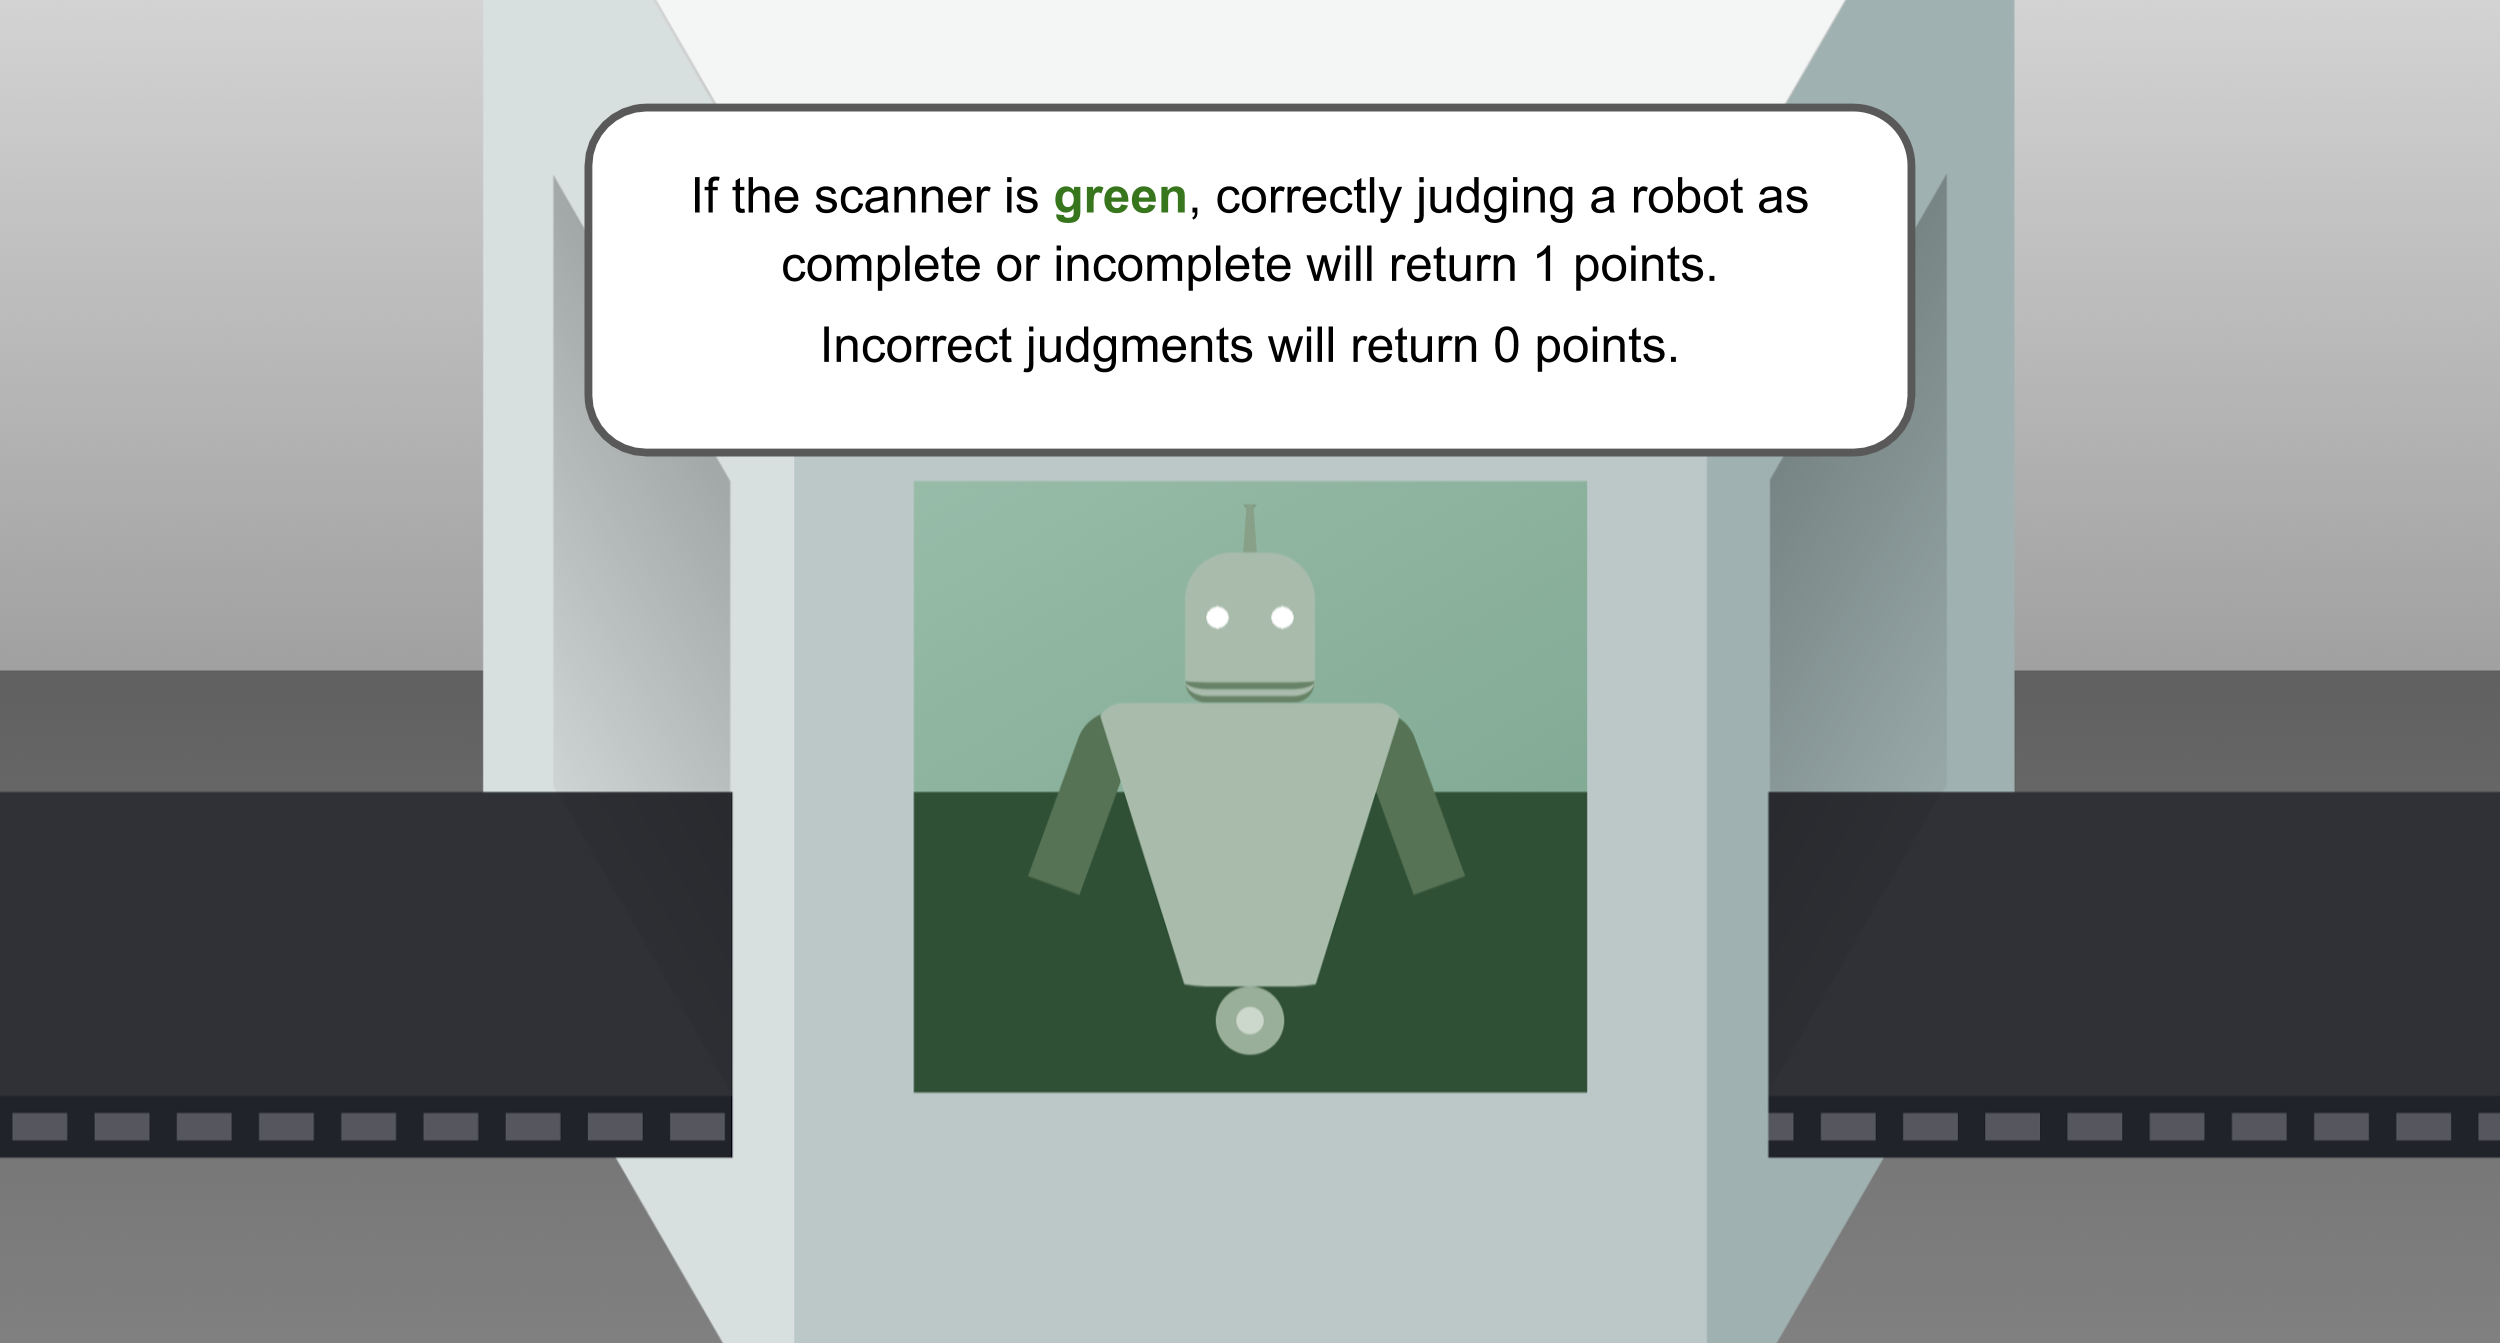
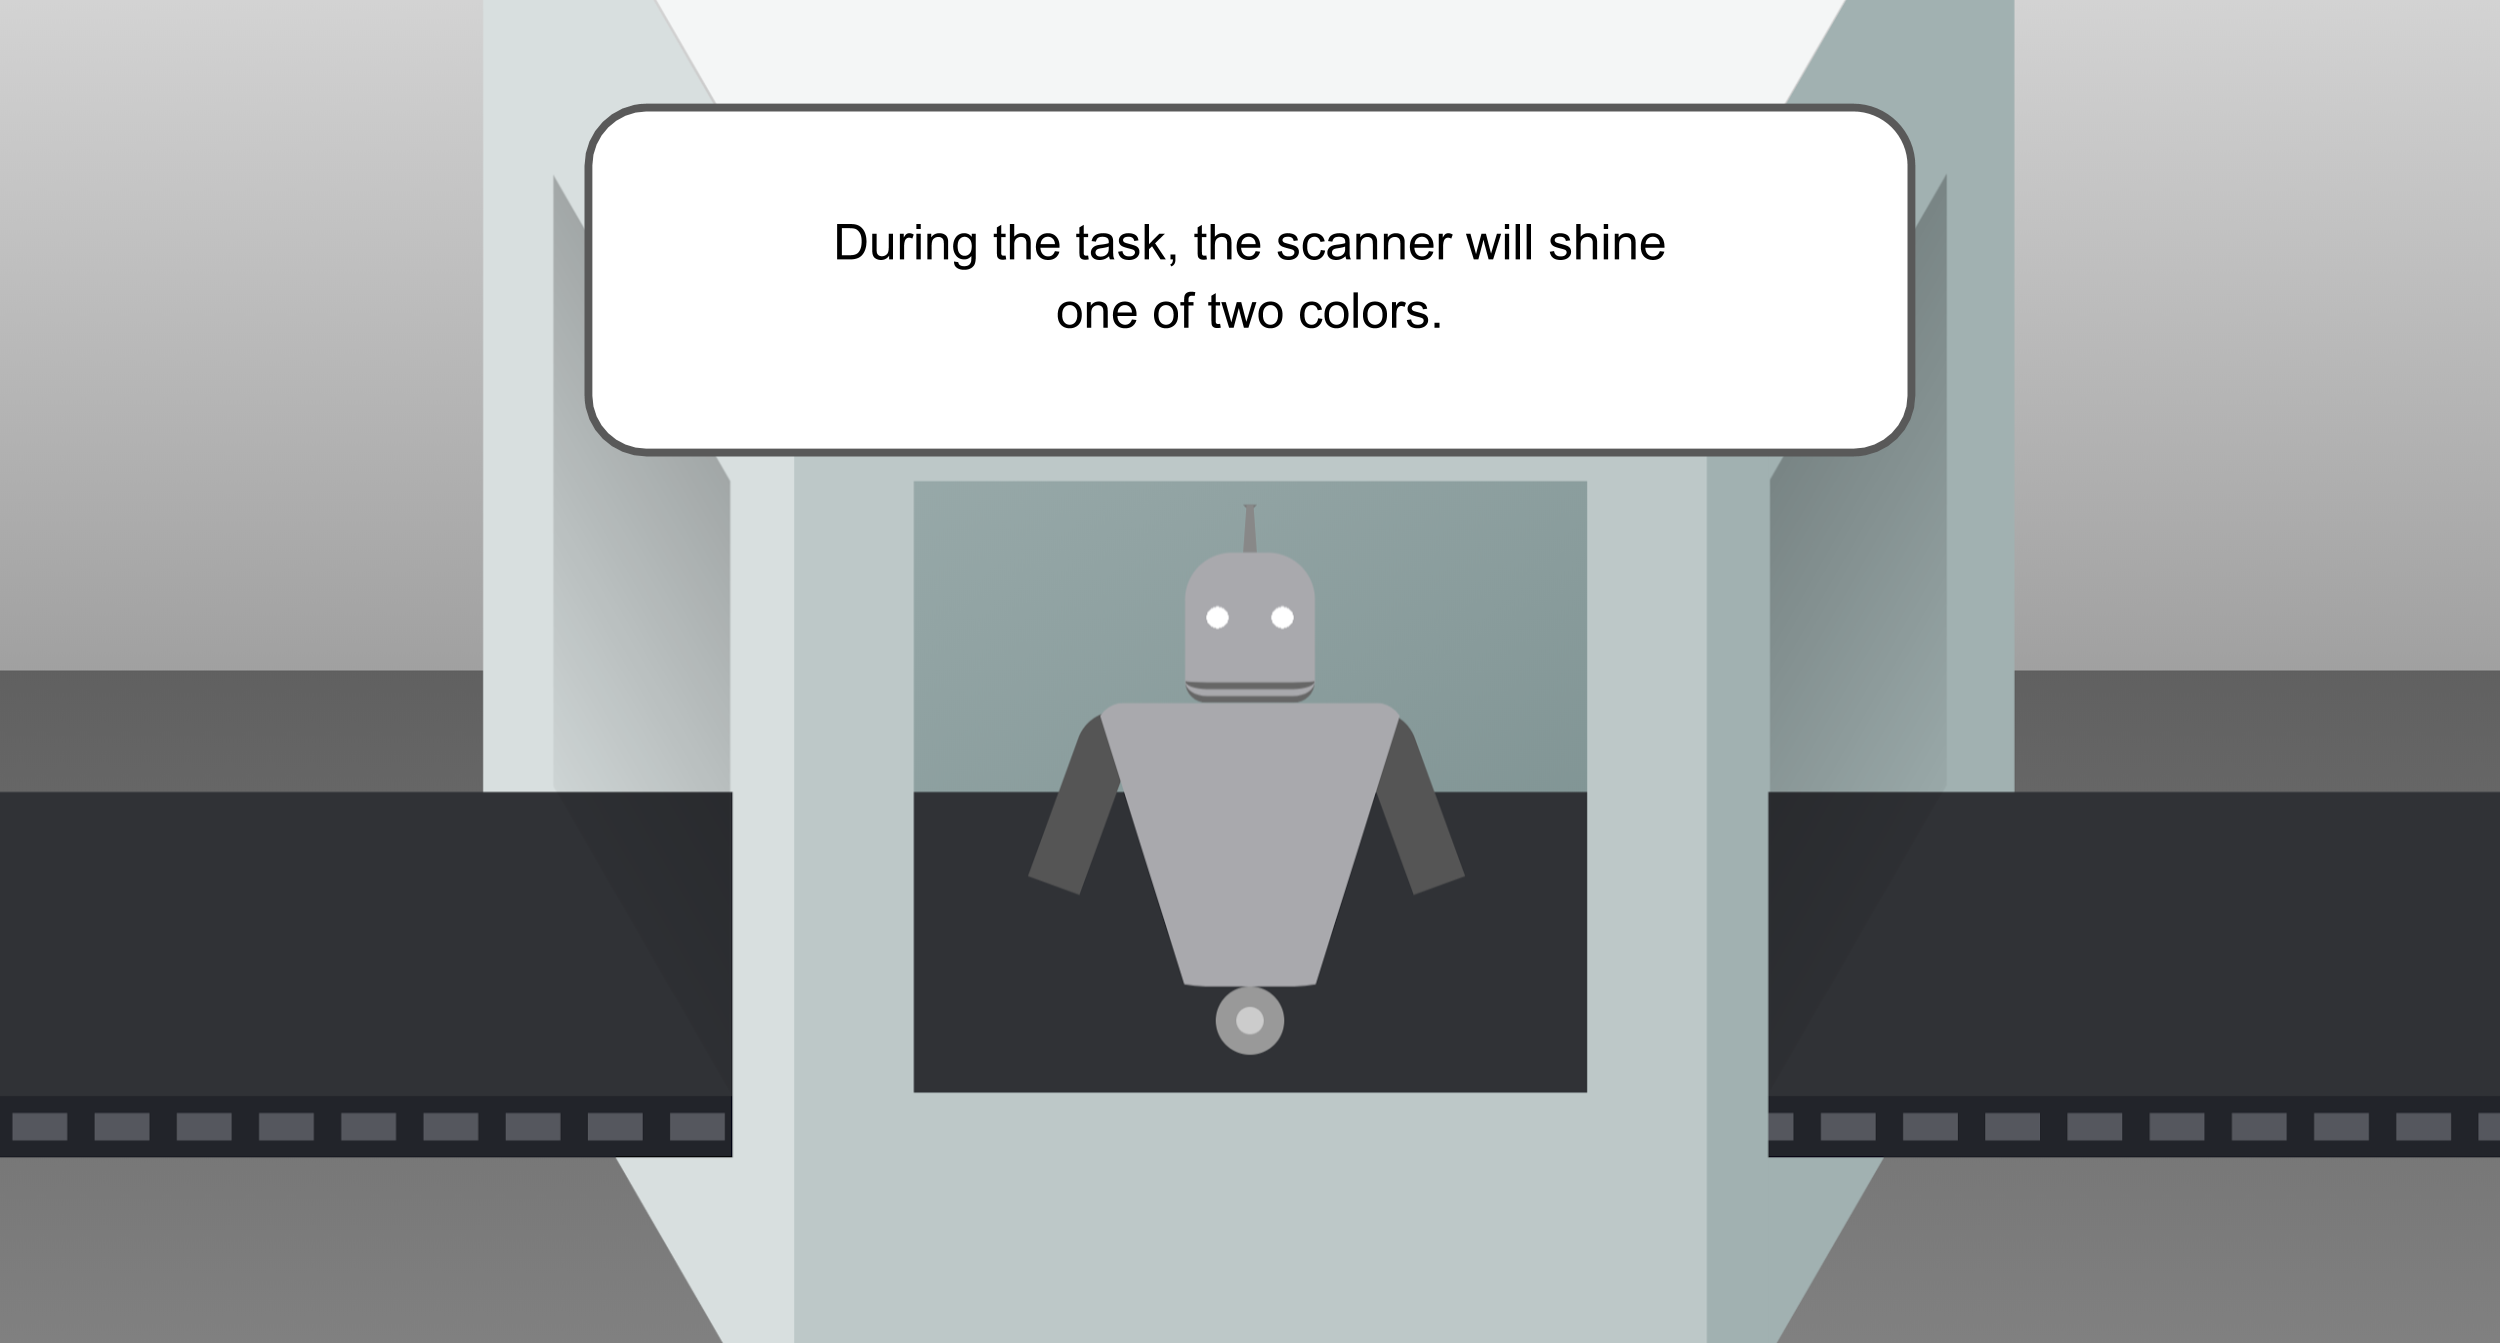
minor changes

Changed region(s): [[0.3432, 0.5495, 0.6552, 0.8243], [0.2808, 0.1221, 0.7176, 0.2748], [0.468, 0.4885, 0.5304, 0.5495]]

diff --git a/app/static/js/jspsych-pit-pause.js b/app/static/js/jspsych-pit-pause.js
@@ -17,19 +17,6 @@ jsPsych.plugins["pit-pause"] = (function() {
         default: jsPsych.ALL_KEYS,
         description: 'The keys the subject is allowed to press to respond to the stimulus.'
       },
-      trial_duration: {
-        type: jsPsych.plugins.parameterType.INT,
-        pretty_name: 'Trial duration',
-        default: null,
-        description: 'How long to show trial before it ends.'
-      },
-      response_ends_trial: {
-        type: jsPsych.plugins.parameterType.BOOL,
-        pretty_name: 'Response ends trial',
-        default: true,
-        description: 'If true, trial will end when subject makes a response.'
-      },
-
     }
   }
 
@@ -41,6 +28,7 @@ jsPsych.plugins["pit-pause"] = (function() {
 
     // Initialize HTML.
     var new_html = '';
+    console.log(trial.score);
 
     // Insert CSS (turn off conveyor animation).
     new_html += `<style>
@@ -73,9 +61,6 @@ jsPsych.plugins["pit-pause"] = (function() {
     new_html += `<div class="rune"></div></div>`;
     new_html += '<div class="foot"></div></div>';
 
-    // Do not add factory window.
-    // new_html += `<div class="window" style="background: ${trial.scanner_color}"></div>`;
-
     // Add factory machine parts (front).
     new_html += '<div class="machine-front"><div class="score-container"></div></div>';
     new_html += '<div class="machine-top"></div>';
@@ -83,7 +68,7 @@ jsPsych.plugins["pit-pause"] = (function() {
 
     // Add pause screen.
     new_html += '<div class="pause-container"><div class="pause-message">';
-    new_html += `<p>Great job! You've earned ${trial.score} points.</p><p>Take a break for a few moments and press any button when you are ready to continue.</p>`;
+    new_html += `<p id='message'>Great job! You've earned ${trial.score} points.<br><br>Take a break for a few moments and press any button when you are ready to continue.</p>`;
     new_html += '</div></div>';
 
     // Display HTML
@@ -99,19 +84,41 @@ jsPsych.plugins["pit-pause"] = (function() {
       key: null
     };
 
+    // function to handle responses by the subject
+    var after_response = function(info) {
+
+      // Kill any timeout handlers / keyboard listeners
+      jsPsych.pluginAPI.clearAllTimeouts();
+      jsPsych.pluginAPI.cancelKeyboardResponse(keyboardListener);
+
+      // Record response (if any made)
+      if (info != null) {
+        response = info;
+      }
+
+      // Update HTML
+      display_element.querySelector('#message').innerHTML = "Get ready to learn a brand new set of robots.<br><br>Press any key to continue."; 
+
+      // Initialize second keyboard listener.
+      var keyboardListener = "";
+      setTimeout(function() {
+        keyboardListener = jsPsych.pluginAPI.getKeyboardResponse({
+          callback_function: end_trial,
+          valid_responses: trial.valid_responses,
+          rt_method: 'performance',
+          persist: false,
+          allow_held_key: false
+        });
+      }, 200);
+
+    };
+
     // function to end trial when it is time
     var end_trial = function() {
 
-      // kill any remaining setTimeout handlers
+      // Kill any timeout handlers / keyboard listeners
       jsPsych.pluginAPI.clearAllTimeouts();
-
-      // kill keyboard listeners
-      if (typeof keyboardListener !== 'undefined') {
-        jsPsych.pluginAPI.cancelKeyboardResponse(keyboardListener);
-      }
-
-      // define new score.
-      const score_post = trial.score + trial.outcome;
+      jsPsych.pluginAPI.cancelKeyboardResponse(keyboardListener);
 
       // gather the data to store for the trial
       var trial_data = {
@@ -125,45 +132,17 @@ jsPsych.plugins["pit-pause"] = (function() {
       jsPsych.finishTrial(trial_data);
     };
 
-    // function to handle responses by the subject
-    var after_response = function(info) {
-
-      // after a valid response, the stimulus will have the CSS class 'responded'
-      // which can be used to provide visual feedback that a response was recorded
-      display_element.querySelector('#jspsych-pit-pause-stimulus').className += ' responded';
-
-      // only record the first response
-      if (response.key == null) {
-        response = info;
-      }
-
-      if (trial.response_ends_trial) {
-        end_trial();
-      }
-    };
-
-    // start the response listener
-    if (trial.valid_responses != jsPsych.NO_KEYS) {
-
-      var keyboardListener = "";
-      setTimeout(function() {
-        keyboardListener = jsPsych.pluginAPI.getKeyboardResponse({
-          callback_function: after_response,
-          valid_responses: trial.valid_responses,
-          rt_method: 'performance',
-          persist: false,
-          allow_held_key: false
-        });
-      }, 3000);
-
-    }
-
-    // end trial if trial_duration is set
-    if (trial.trial_duration !== null) {
-      jsPsych.pluginAPI.setTimeout(function() {
-        end_trial();
-      }, trial.trial_duration);
-    }
+    // Initialize keyboard listener.
+    var keyboardListener = "";
+    setTimeout(function() {
+      keyboardListener = jsPsych.pluginAPI.getKeyboardResponse({
+        callback_function: after_response,
+        valid_responses: trial.valid_responses,
+        rt_method: 'performance',
+        persist: false,
+        allow_held_key: false
+      });
+    }, 500);
 
   };
 

diff --git a/app/static/js/pit-instructions.js b/app/static/js/pit-instructions.js
@@ -5,6 +5,7 @@ var INSTRUCTIONS_01 = {
       "../static/img/instructions02.png",
       "../static/img/instructions03.png",
       "../static/img/instructions04.png",
+      "../static/img/instructions05.png",
     ],
     show_clickable_nav: true,
     button_label_previous: "Prev",
@@ -14,7 +15,7 @@ var INSTRUCTIONS_01 = {
 var INSTRUCTIONS_02 = {
     type: 'pit-instructions',
     pages: [
-      "../static/img/instructions05.png",
+      "../static/img/instructions06.png",
     ],
     show_clickable_nav: true,
     button_label_previous: "Prev",
@@ -24,13 +25,13 @@ var INSTRUCTIONS_02 = {
 var INSTRUCTIONS_03 = {
     type: 'pit-instructions',
     pages: [
-      "../static/img/instructions06.png",
       "../static/img/instructions07.png",
       "../static/img/instructions08.png",
       "../static/img/instructions09.png",
       "../static/img/instructions10.png",
       "../static/img/instructions11.png",
       "../static/img/instructions12.png",
+      "../static/img/instructions13.png",
     ],
     show_clickable_nav: true,
     button_label_previous: "Prev",
@@ -44,7 +45,7 @@ var COMPREHENSION = {
 var INSTRUCTIONS_04 = {
     type: 'pit-instructions',
     pages: [
-      "../static/img/instructions13.png",
+      "../static/img/instructions14.png",
     ],
     show_clickable_nav: true,
     button_label_previous: "Prev",

diff --git a/app/templates/experiment.html b/app/templates/experiment.html
@@ -40,6 +40,8 @@
       "../static/img/instructions10.png",
       "../static/img/instructions11.png",
       "../static/img/instructions12.png",
+      "../static/img/instructions13.png",
+      "../static/img/instructions14.png",
       "../static/img/rune01.png",
       "../static/img/rune02.png",
       "../static/img/rune03.png",
@@ -64,7 +66,7 @@
     timeline = timeline.concat(INSTRUCTIONS_03);
     timeline = timeline.concat(COMPREHENSION);
     timeline = timeline.concat(INSTRUCTIONS_04);
-    timeline = timeline.concat(PIT_01);
+    timeline = timeline.concat(PIT_01.slice(0,2));
     timeline = timeline.concat(PAUSE);
     timeline = timeline.concat(PIT_02);
 

diff --git a/app/static/js/jspsych-pit-comprehension.js b/app/static/js/jspsych-pit-comprehension.js
@@ -391,7 +391,7 @@ jsPsych.plugins['pit-comprehension'] = (function() {
 
     // Detect if all correct answers
     display_element.addEventListener('change', function(){
-      if (Q1.className === 'valid' && Q2.className === 'valid' && Q4.className === 'valid') {
+      if (Q1.className === 'valid' && Q2.className === 'valid' && Q3.className === 'valid' && Q4.className === 'valid') {
         document.getElementById("jspsych-survey-multi-choice-next").disabled = false;
       } else {
         document.getElementById("jspsych-survey-multi-choice-next").disabled = true;

diff --git a/app/static/js/pit-experiment.js b/app/static/js/pit-experiment.js
@@ -126,7 +126,7 @@ BLOCK_01.forEach(function (trial) {
     trial_duration: trial_duration,
     feedback_duration: feedback_duration,
     on_finish: function(trial) {
-      score = score + jsPsych.data.getLastTrialData().values()[0].Outcome;
+      score = score + parseInt(jsPsych.data.getLastTrialData().values()[0].Outcome);
     },
     data: {
       Trial: trial.Trial,
